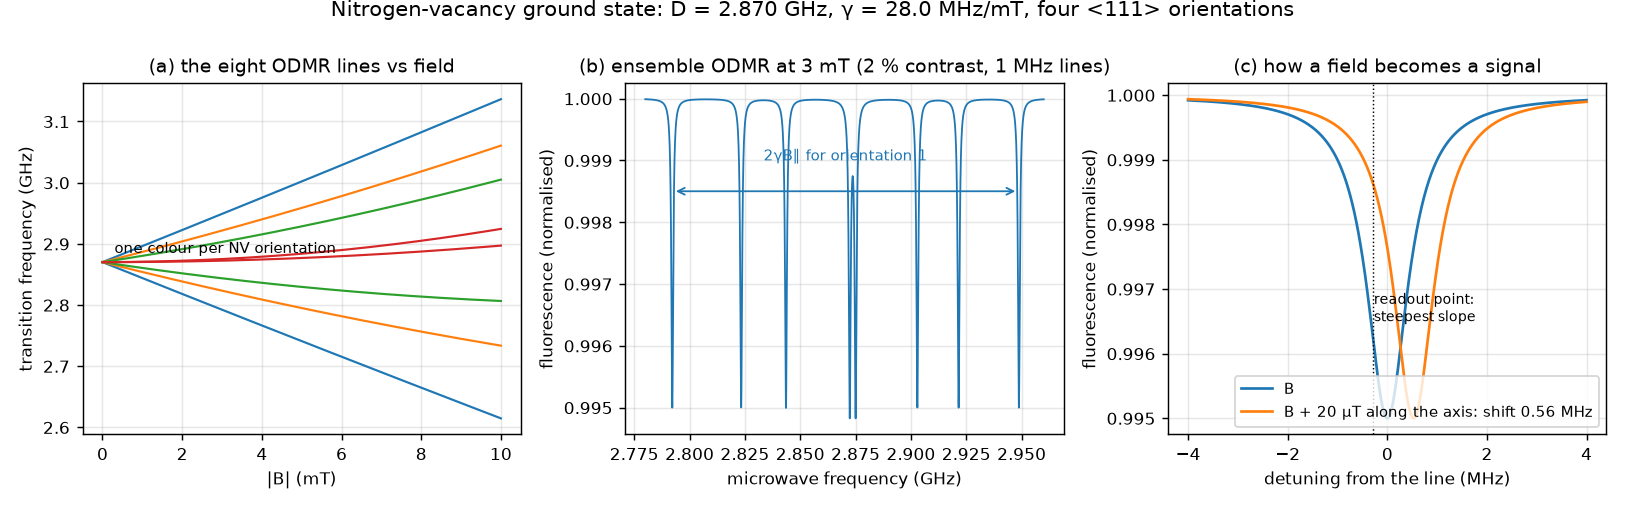
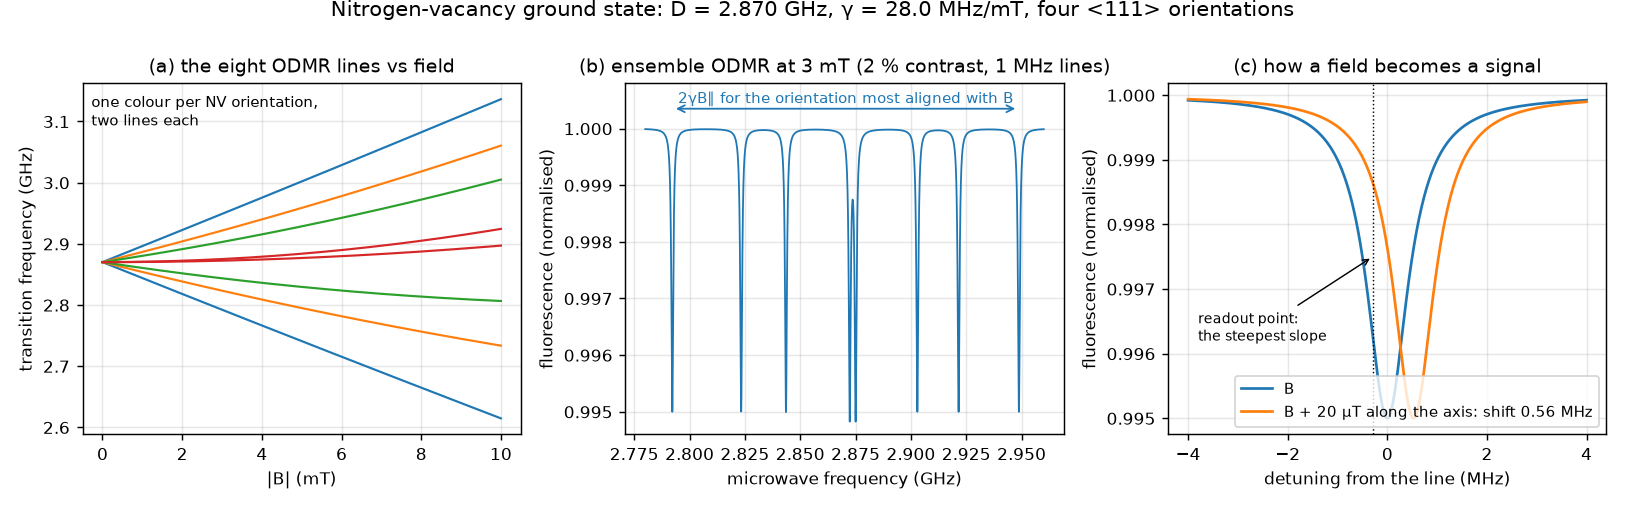
Figure 1: labels moved off the curves

diff --git a/scripts/figs.py b/scripts/figs.py
@@ -25,16 +25,16 @@ lines = np.array([nv.all_transitions_ghz(b * B_DIR).ravel() for b in bs])
 for i in range(8):
     a.plot(bs * 1e3, lines[:, i], color=f"C{i // 2}", lw=1.2)
 a.set(title="(a) the eight ODMR lines vs field", xlabel="|B| (mT)", ylabel="transition frequency (GHz)")
-a.text(0.3, 2.885, "one colour per NV orientation", fontsize=8.5)
+a.text(0.02, 0.97, "one colour per NV orientation,\ntwo lines each", transform=a.transAxes, va="top", fontsize=8.5)
 
 a = ax[1]
 f = np.linspace(2.78, 2.96, 4000)
 b = 3e-3 * B_DIR
 a.plot(f, nv.odmr_spectrum(f, b, contrast=0.02, linewidth_mhz=1.0), lw=1)
 ln = nv.all_transitions_ghz(b)
-a.annotate("", xy=(ln[0, 0], 0.9985), xytext=(ln[0, 1], 0.9985), arrowprops=dict(arrowstyle="<->", color="C0"))
-a.text((ln[0, 0] + ln[0, 1]) / 2, 0.999, "2γB∥ for orientation 1", ha="center", fontsize=8.5, color="C0")
-a.set(title="(b) ensemble ODMR at 3 mT (2 % contrast, 1 MHz lines)", xlabel="microwave frequency (GHz)", ylabel="fluorescence (normalised)")
+a.annotate("", xy=(ln[0, 0], 1.00035), xytext=(ln[0, 1], 1.00035), arrowprops=dict(arrowstyle="<->", color="C0"))
+a.text((ln[0, 0] + ln[0, 1]) / 2, 1.00045, "2γB∥ for the orientation most aligned with B", ha="center", fontsize=8.5, color="C0")
+a.set(title="(b) ensemble ODMR at 3 mT (2 % contrast, 1 MHz lines)", xlabel="microwave frequency (GHz)", ylabel="fluorescence (normalised)", ylim=(0.9946, 1.0008))
 
 a = ax[2]
 f0 = ln[0, 1]
@@ -43,7 +43,8 @@ s0 = nv.odmr_spectrum(fz, b, 0.02, 1.0)
 s1 = nv.odmr_spectrum(fz, b + 20e-6 * B_DIR, 0.02, 1.0)
 a.plot((fz - f0) * 1e3, s0, label="B")
 a.plot((fz - f0) * 1e3, s1, label="B + 20 µT along the axis: shift 0.56 MHz")
-a.axvline(-0.29, color="k", ls=":", lw=0.8); a.text(-0.27, 0.9965, "readout point:\nsteepest slope", fontsize=8)
+a.axvline(-0.29, color="k", ls=":", lw=0.8)
+a.annotate("readout point:\nthe steepest slope", xy=(-0.29, 0.9975), xytext=(-3.8, 0.9962), fontsize=8, arrowprops=dict(arrowstyle="->", color="k", lw=0.8))
 a.set(title="(c) how a field becomes a signal", xlabel="detuning from the line (MHz)", ylabel="fluorescence (normalised)")
 a.legend(loc="lower right")
 fig.suptitle("Nitrogen-vacancy ground state: D = 2.870 GHz, γ = 28.0 MHz/mT, four <111> orientations", y=1.0)
